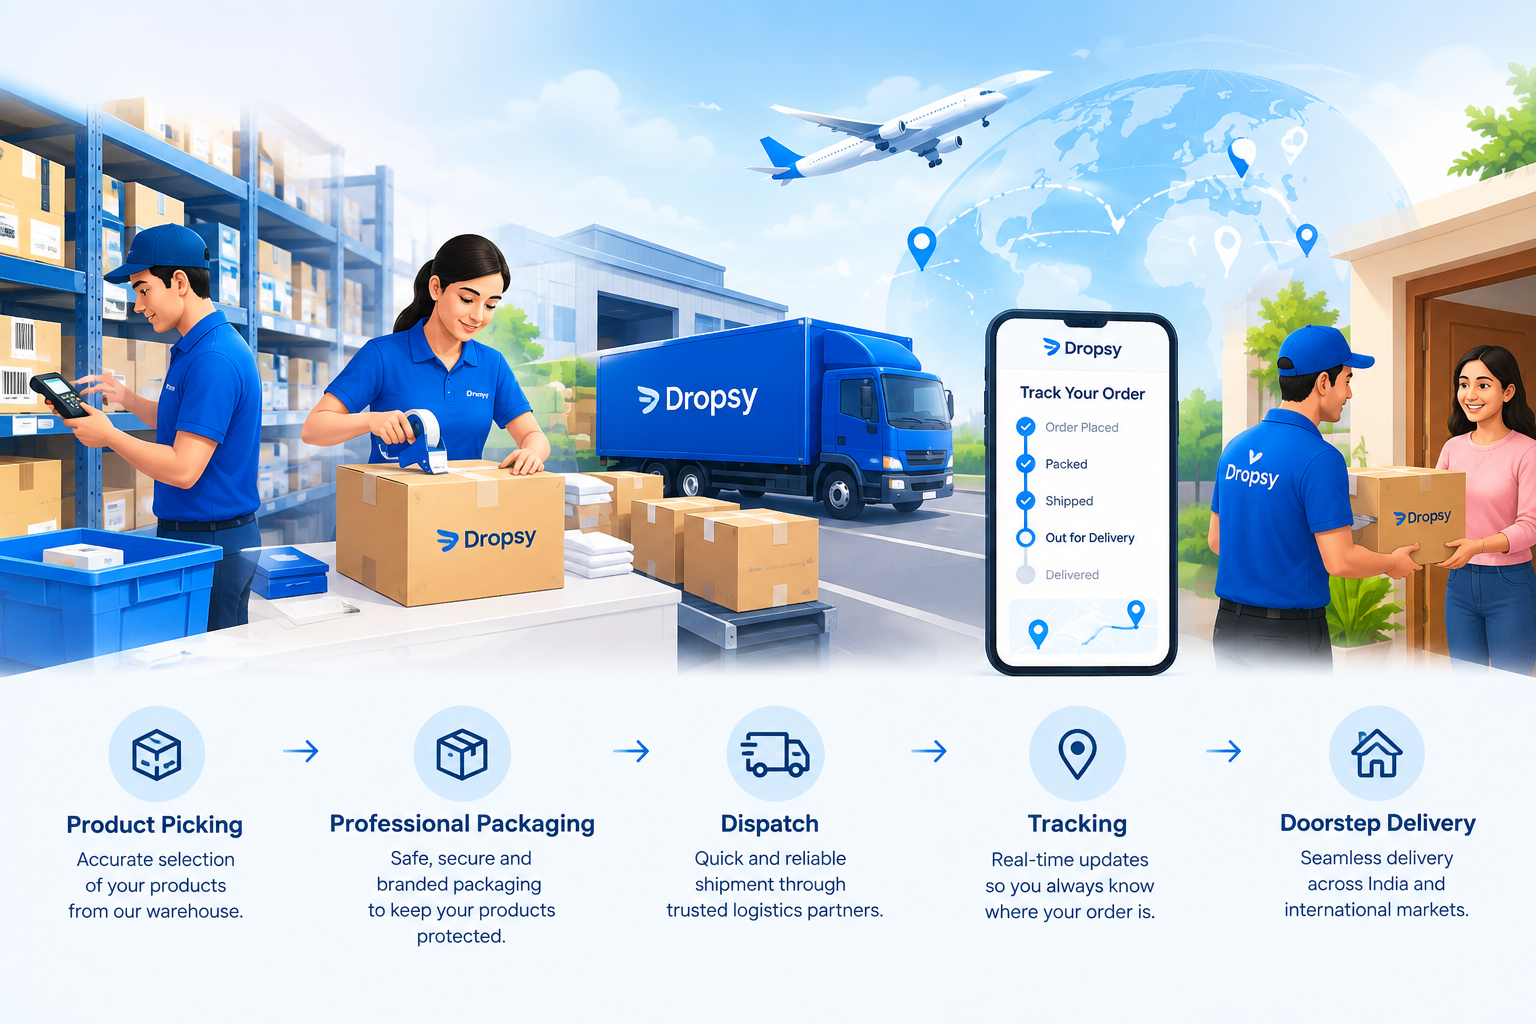
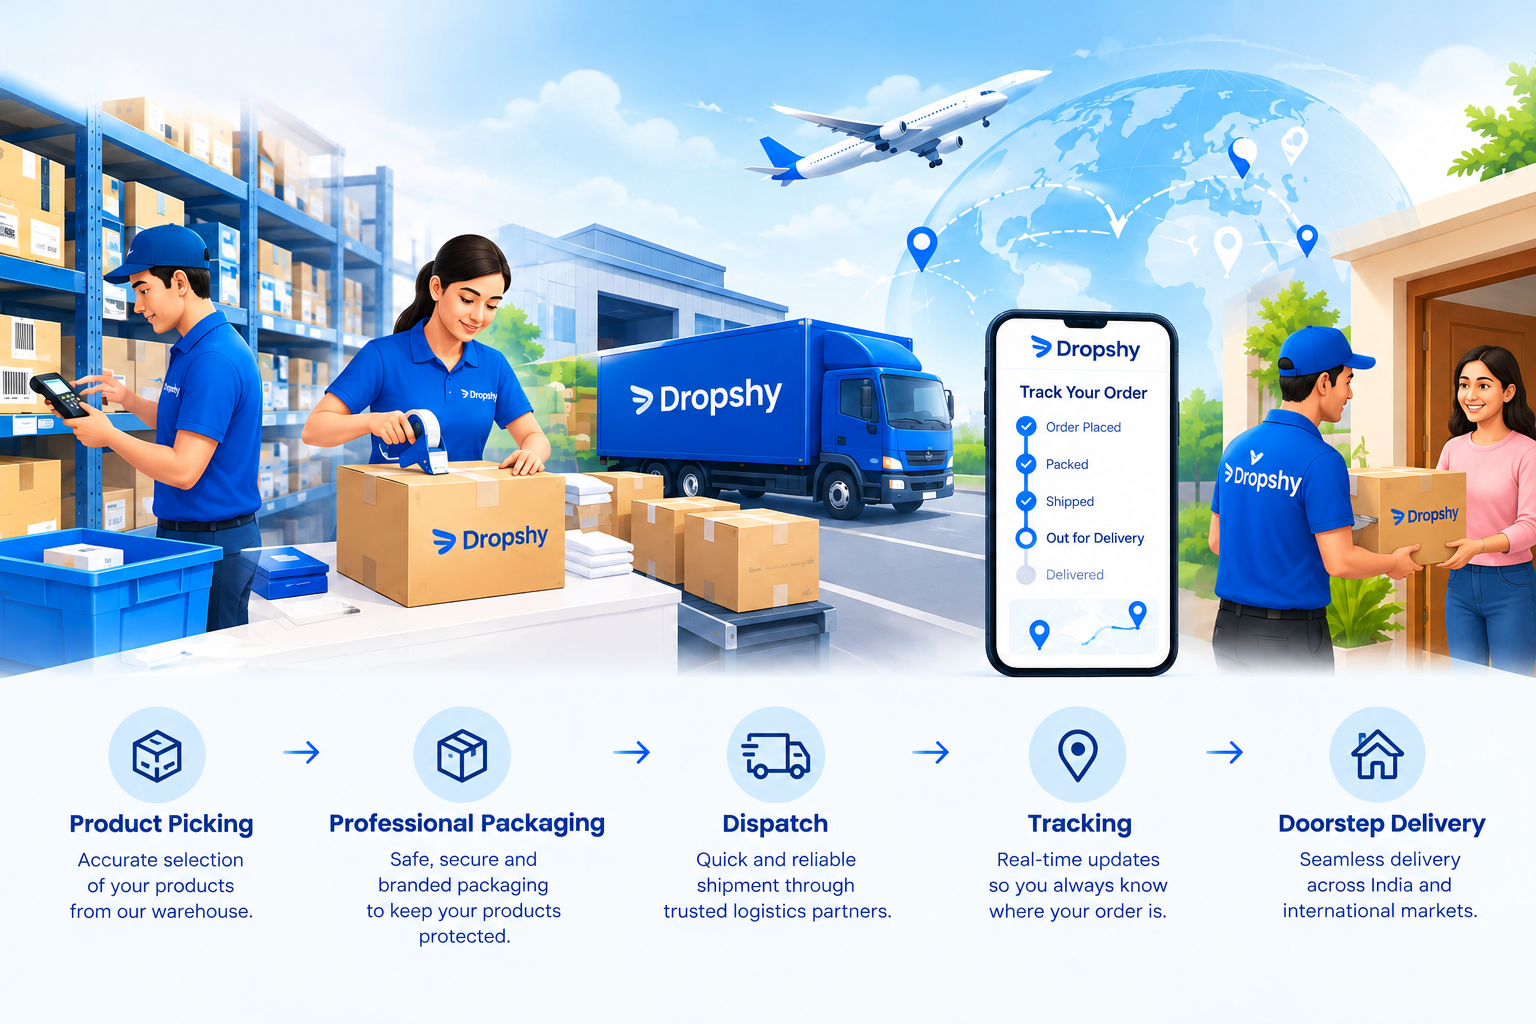
Update About hero section and order image

diff --git a/src/components/About/Hero.jsx b/src/components/About/Hero.jsx
@@ -8,7 +8,7 @@ import banner3 from "../../assets/images/about3.jpg";
 const SLIDES = [
   {
     eyebrow: "Ecommerce shipping OS",
-    title: "Ship smarter,\nGrow faster with Dropsy",
+    title: "Ship smarter,\nGrow faster with Dropshy",
     subtitle:
       "Bring every parcel, return, and customer update into one premium operations hub.",
     image: banner1,
@@ -217,7 +217,7 @@ const Hero = () => {
             </div>
 
             <div className="hero__badge hero__badge--bottom">
-              Dropsy
+              Dropshy
             </div>
 
           </div>
